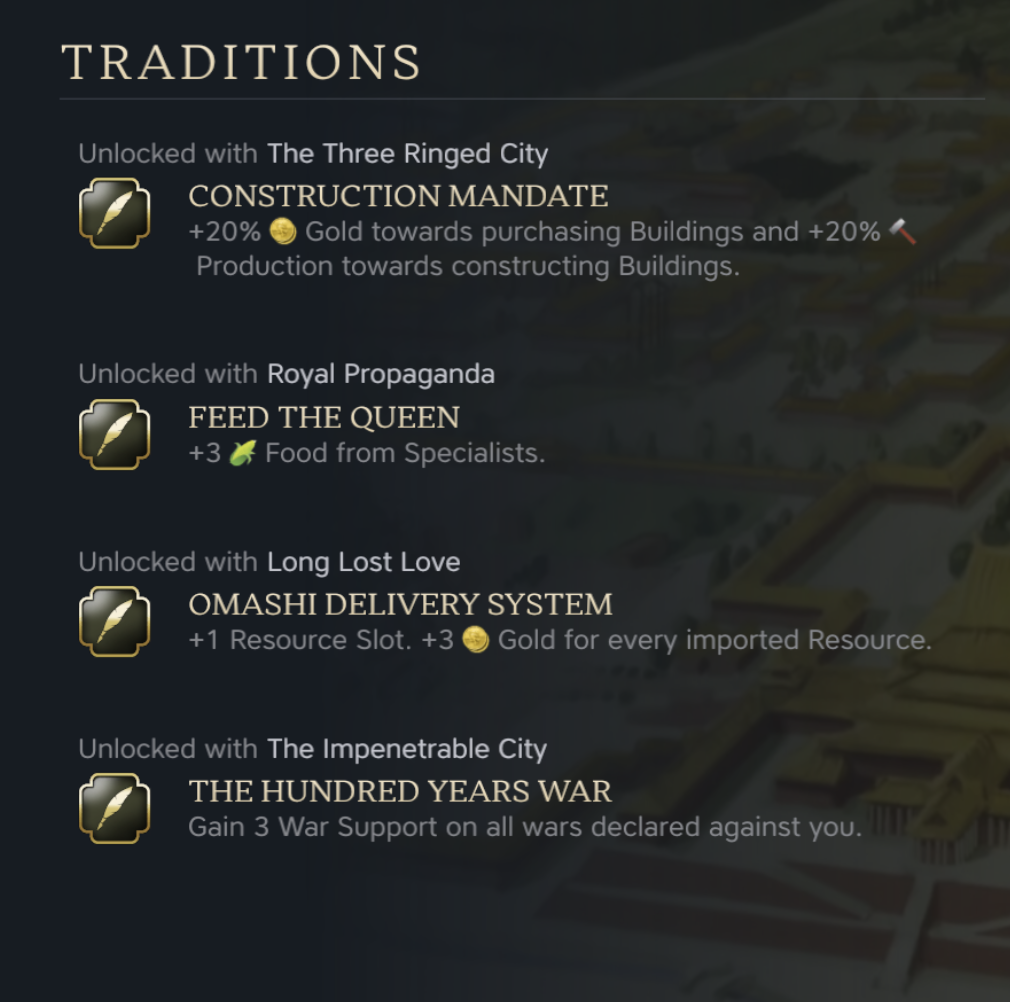
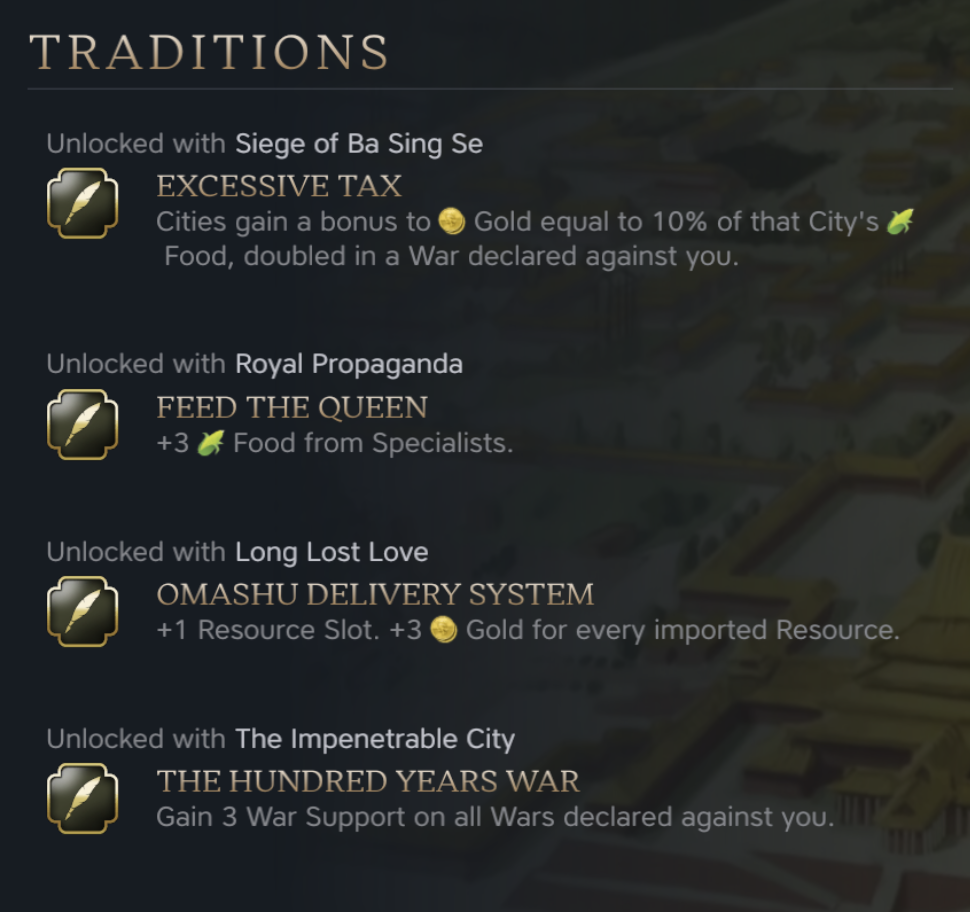
Reworked unique civic tree bonuses. Changed Construction Mandate Policy to Excessive Tax. Overall, shifted identity of Civ to give a unique playstyle focused on getting Wars declared on you. Updated Unit costs to match update 1.2.5. updated readme to reflect changes and with new images.

diff --git a/README.md b/README.md
@@ -2,9 +2,9 @@
 
 Author: Austin Nicolas
 
-Version: 1.0.2
+Version: 1.1
 
-Inspired by the Earth Kingdom from Avatar the Last Airbender. A modern age civilization focused on food/growth and trade.
+Inspired by the Earth Kingdom from Avatar the Last Airbender. A modern age civilization focused on Specialists and high food cities, Trade, and having Wars declared on you.
 
 ## Special Thanks:
 
@@ -48,11 +48,11 @@ The Cabbage Merchant is an Earth Kingdom Unique Merchant. Civilian who can estab
 
 ###  Traditions:
 
-Construction Mandate: +20% Gold towards purchasing Buildings and +20% Production towards constructing Buildings.
+Excessive Tax: Cities gain a bonus to Gold equal to 10% of that City's Food, doubled in a War declared against you.
 
 Feed the Queen: +3 Food from Specialists.
 
-Omashi Delivery System: +1 Resource Slot. +3 Gold for every imported Resource.
+Omashu Delivery System: +1 Resource Slot. +3 Gold for every imported Resource.
 
 The Hundred Years War: Gain 3 War Support on all wars declared against you
 
@@ -68,19 +68,21 @@ The Hundred Years War: Gain 3 War Support on all wars declared against you
 
 ### Unique Civics:
 
-The Three Ringed City: Unlocks The Outer Wall Unique Improvement and the Construction Mandate Tradition.
+Siege of Ba Sing Se: Unlocks The Outer Wall Unique Improvement and the Excessive Tax Tradition.
+
+"You once laid siege to Ba Sing Se for 600 days, but it would not yield to you." - Earth Bender Captain to Iroh
 
 Royal Propaganda: Unlocks the Feed the Queen Tradition. +20% growth in the Capital.
 
 "There's no war in Ba Sing Se." - Dai Li Agent
 
-Mastery: Unlocks the Earth Monarch Palace Wonder.
+Mastery: Unlocks the Earth Monarch Palace Wonder. +3 Food in the Capital for every connected Settlement.
 
-Long Lost Love: Unlocks the Omashi Delivery System Tradition. +10 range for all Trade Routes
+Long Lost Love: Unlocks the Omashu Delivery System Tradition. You may establish and keep Trade Routes with Cities you are at War with.
 
 "Love is brightest in the dark." - Oma and Shu's tomb
 
-Mastery: The Capital gains a Population every time you enter a Celebration.
+Mastery: +10 range for all Trade Routes.
 
 The Impenetrable City: Unlocks The Hundred Years War Tradition. +1 Specialist Limit in the Capital.
 
@@ -102,8 +104,9 @@ Mastery: +1 Settlement Limit.
     <li>No visual model for the Outer Wall Unique Improvement.</li>
     <li>No Audio for unique civic and wonder quotes.</li>
     <li>Not all bonuses are shown with leonardfactory's policy yield preview mod, specifically the 0 food maintenance causes some issues for policies that impact specialist food cost showing them adding food when they are not. The two are still compatible and having both will not impact gameplay, the only impact is this visual bug.</li>
+    <li>Some Narrative Events are unable to activate.</li>
 </ol>
 
 ## Latest Update:
 
-An additional narrative event around ideologies. Fixed unique merchant so that it is always unlocked.
+Reworked unique civic tree bonuses. Changed Construction Mandate Policy to Excessive Tax. Overall, shifted identity of Civ to give a unique playstyle focused on getting Wars declared on you. Updated Unit costs to match update 1.2.5.
